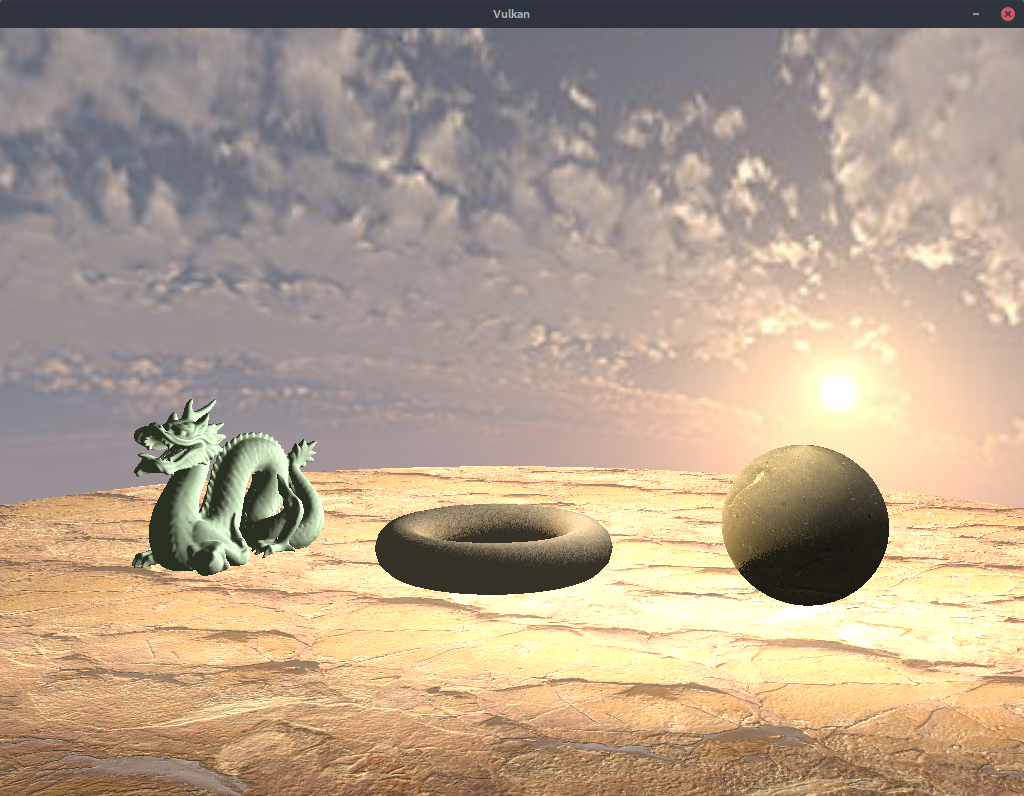
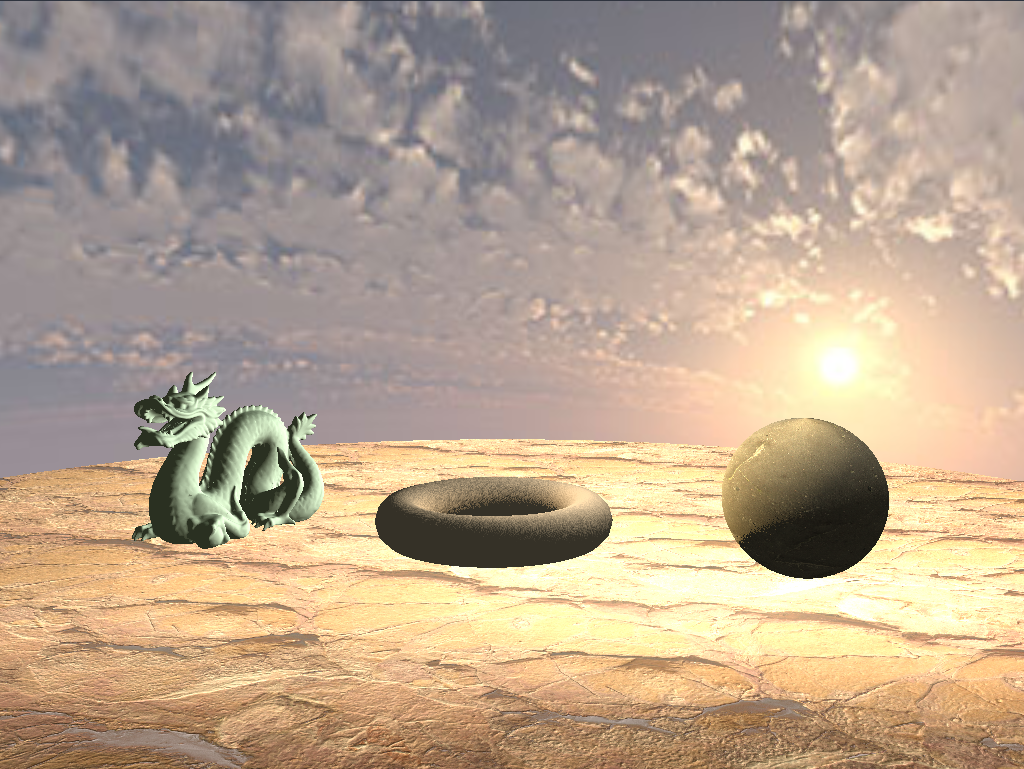
Included new screenshots in the article

diff --git a/results.tex b/results.tex
@@ -1,22 +1,39 @@
 \section{Results}
 The application allows the user to create and visualize different shaders in multiple objects, define an arbitrary number of parameters for each material and also use multiple textures to create the desired visuals.
 
-\begin{figure*}[!t]
-\centering
-\subfloat[Example: Phong shading model.]{
-    \includegraphics[width=3in]{"results/phong"}
-    %\label{fig_first_case}
-}
-\hfil
-\subfloat[Example: Normal mapping applied to a sphere.]{
-    \includegraphics[width=3in]{"results/normal"}
-    %\label{fig_second_case}
-}
-\hfil
-\subfloat[Example: Multiple objects with different materials.]{
-    \includegraphics[width=5in]{"results/meshes-multi-material"}
-    %\label{fig_second_case}
-}
-\caption{Materials rendered using our application.}
-%\label{fig_sim2}
+\begin{figure*}
+    \centering
+    \subfloat[Phong shading]{
+        \includegraphics[width = 7cm]{"results/phong"}
+    }
+    \hfil
+    \subfloat[Phong shading with normal mapping]{
+        \includegraphics[width = 7cm]{"results/normal"}
+    }
+    \hfil
+    \subfloat[Multiple objects with different materials]{
+        \includegraphics[width = 10cm]{"results/meshes-multi-material"}
+    }
+
+    \caption{Materials rendered using our application.}
+\end{figure*}
+
+\begin{figure*}
+    \centering
+    \caption{Results}
+    \subfloat[Scene]{
+        \includegraphics[width = 7cm]{"results/scene"}
+    }
+    \hfil
+    \subfloat[Dragon closeup]{
+        \includegraphics[width = 7cm]{"results/dragon-closeup"}
+    }
+    \hfil
+    \subfloat[Torus closeup]{
+        \includegraphics[width = 7cm]{"results/torus-closeup"}
+    }
+    \hfil
+    \subfloat[Sphere closeup]{
+        \includegraphics[width = 7cm]{"results/sphere-closeup"}
+    }
 \end{figure*}

diff --git a/usage.tex b/usage.tex
@@ -7,8 +7,6 @@ In this section we'll describe how to use the application, explaining the differ
 \subsection{Materials and Shaders}
 When the application is first executed, a default material is loaded. This is a simple material that will be assigned to new objects when they're created.
 
-\includegraphics[width=2.5in]{"editor/material-list"}
-
 The create button allows the user to load shaders and create a new material.
 
 \includegraphics[width=3in]{"editor/create-material"}
@@ -30,11 +28,7 @@ The editor will create appropriate widgets for each uniform defined in the shade
 %%%%%%%%%%%%%%%%%%%%%%%%%%%%%%%%%%%%%%%%%%%%%%%%%%
 \subsection{Objects}
 
-\includegraphics[width=2.5in]{"editor/object-list"}
-
 The plus button allows the user to create a new object, selecting a primitive geometry from a list or loading a custom mesh file (in Wavefront ".obj" format).
-
-\includegraphics[width=2.5in]{"editor/add-geometry"}
 
 Newly created objects will be given a name based on their shape (if the object is a primitive) or their file name (if it was created from an object file) and their creation order. New objects will be assigned the default material upon creation.
 
